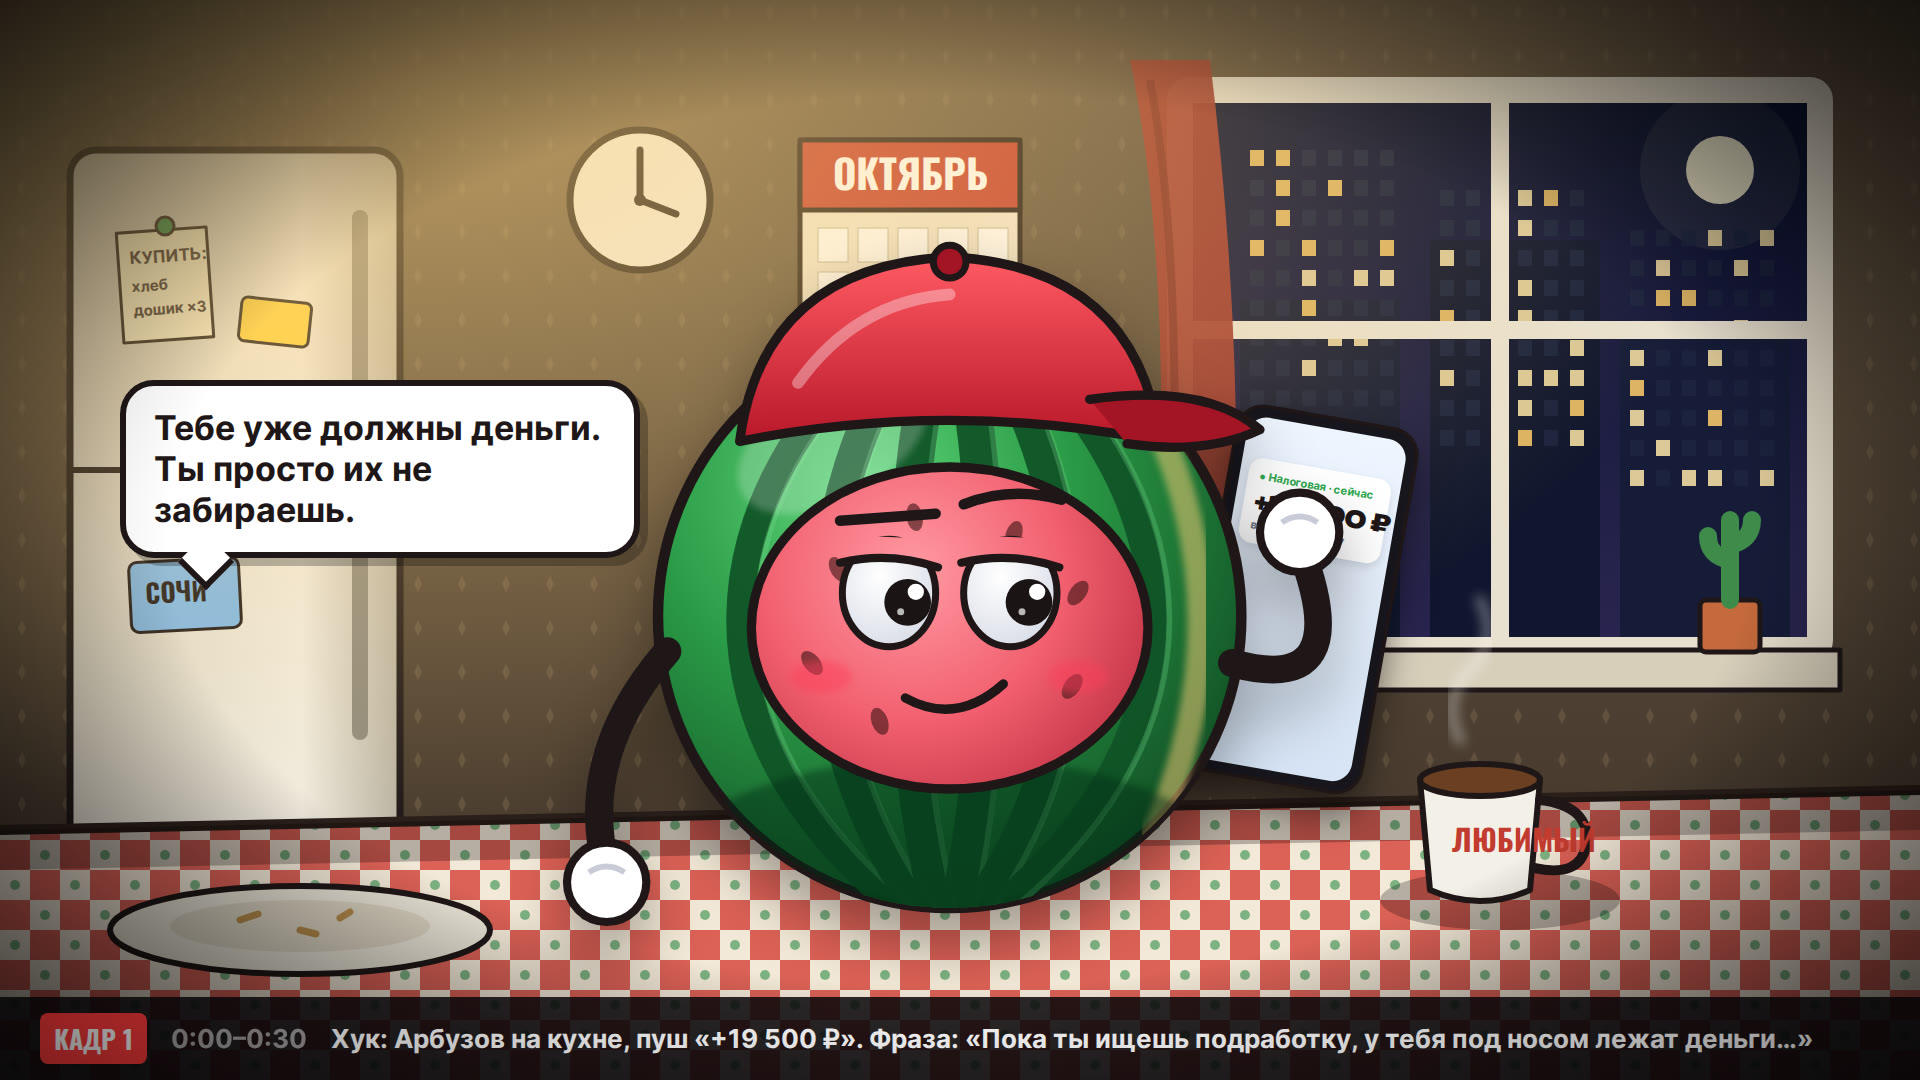
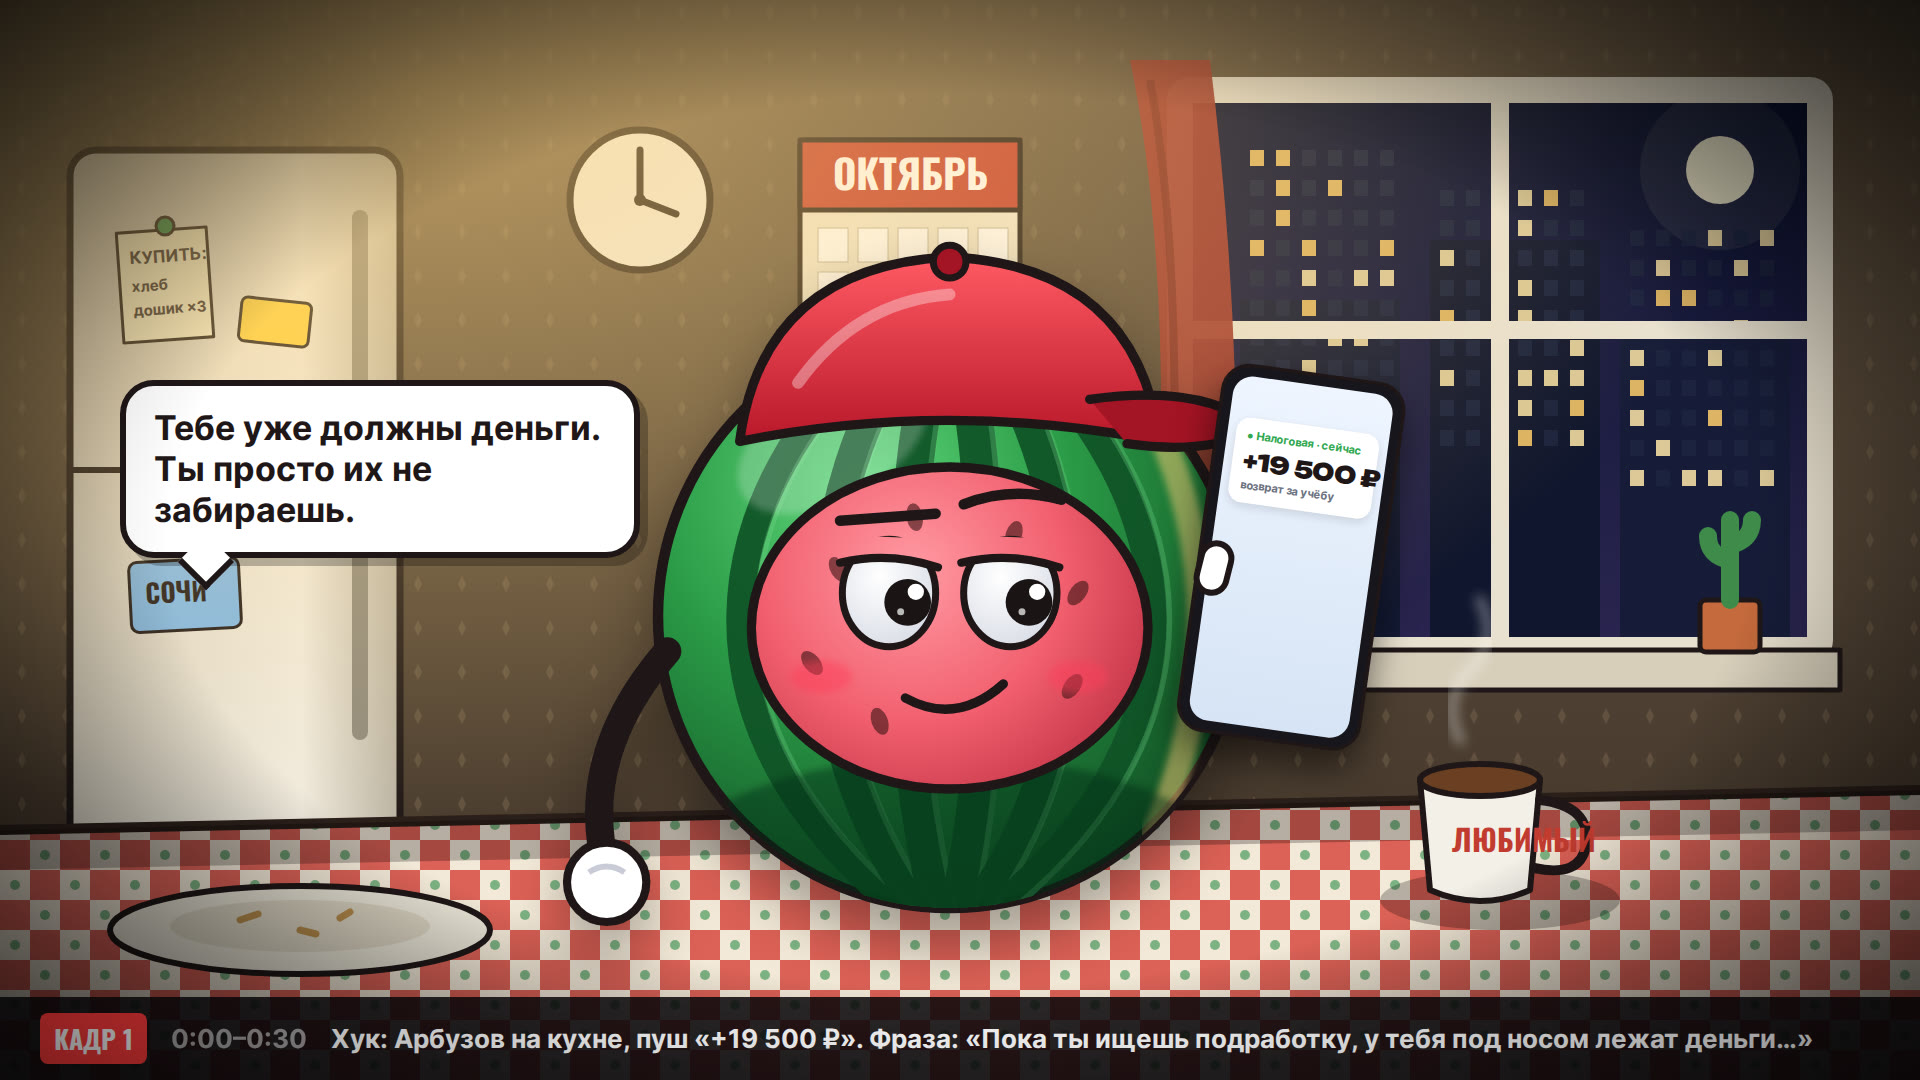
Storyboard #6 frame 1: hand behind the phone
Claude-Session: https://claude.ai/code/session_01RfCfKDkbyGyDNmw4SWPkFj

Changed region(s): [[0.5938, 0.3361, 0.75, 0.7639]]

diff --git a/youtube/06-money-you-skip/board/board.html b/youtube/06-money-you-skip/board/board.html
@@ -85,8 +85,9 @@ const grain = `<div class="a" style="inset:0;background:${noise(.22)};mix-blend-
 const S = {
   1: () => {   // хук: та же кухня, что понравилась
     P(`<img class="a" src="../../characters/hybrid/bg/_placeholder_kitchen.png" style="left:0;top:0;width:1920px;height:1080px">`);
-    P(phone(1240, 400, 10, push("Налоговая", "+19 500 ₽", "возврат за учёбу"), .62));
     P(hero(600, 150, 700, "smirk", 16, "#ffd27a", "phone", false));
+    P(phone(1225, 360, 8, push("Налоговая", "+19 500 ₽", "возврат за учёбу"), .62));   // телефон поверх руки — рука за телефоном (владелец 14.10)
+    P(`<div class="a" style="left:1196px;top:540px;width:36px;height:56px;border-radius:18px;background:#fff;border:6px solid ${OL};transform:rotate(14deg)"></div>`);
     P(bubble(120, 380, "Тебе уже должны деньги. Ты просто их не забираешь.", 520));
     P(label(1, "Хук: Арбузов на кухне, пуш «+19 500 ₽». Фраза: «Пока ты ищешь подработку, у тебя под носом лежат деньги…»", "0:00–0:30"));
   },
